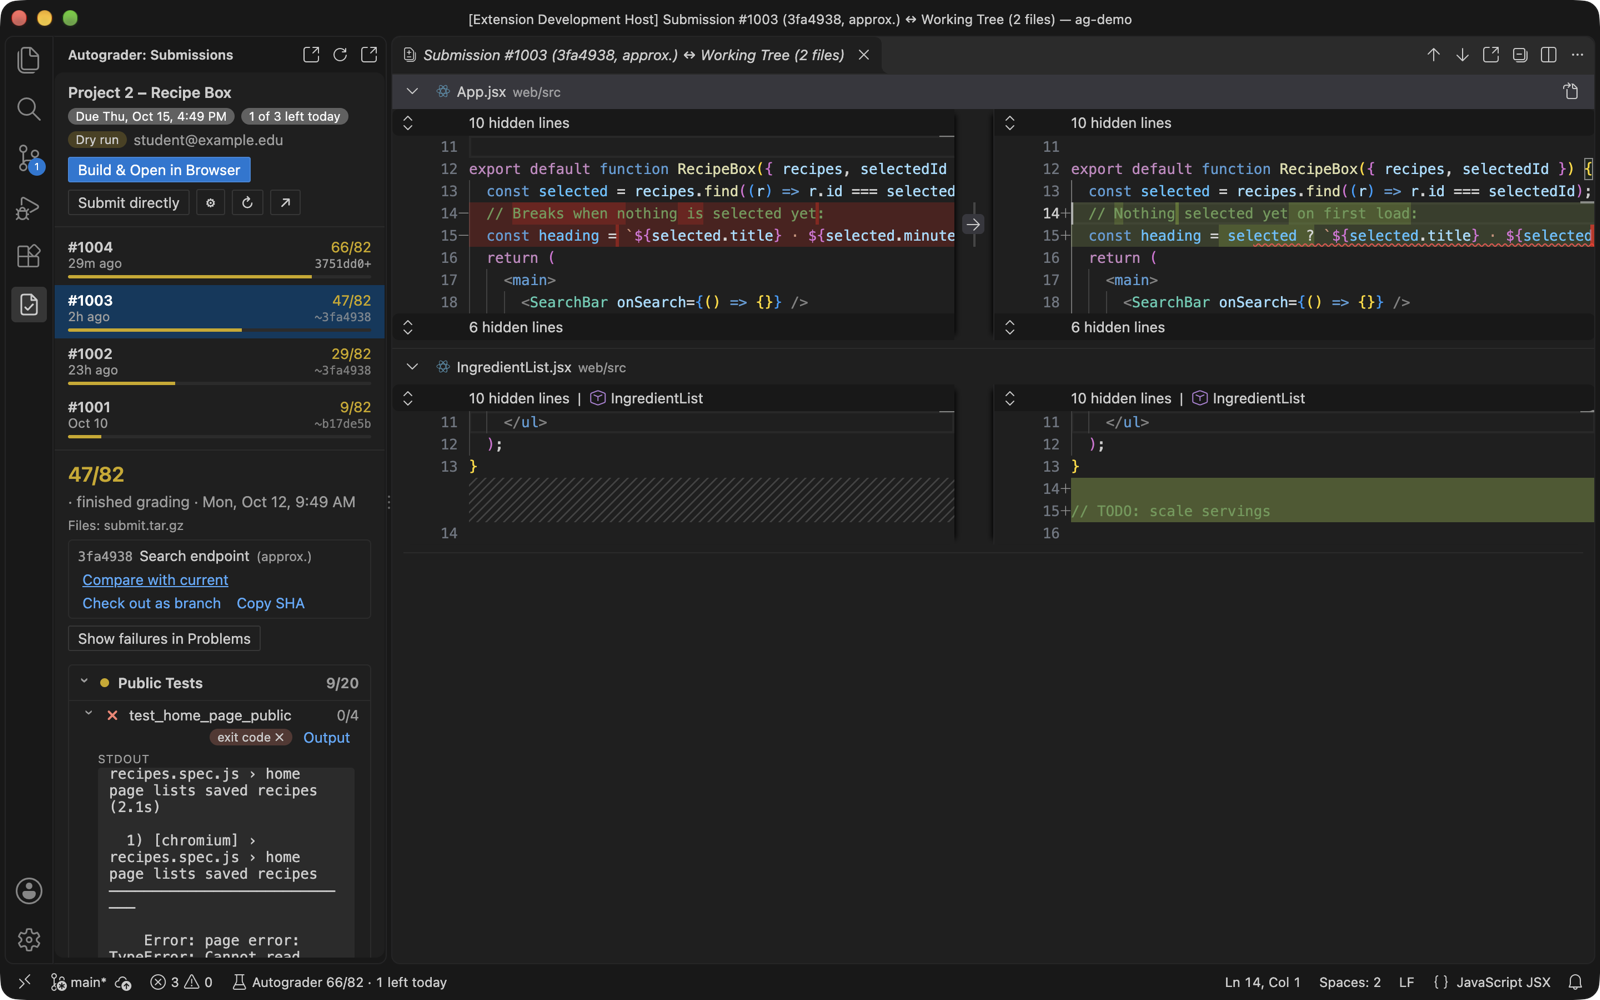
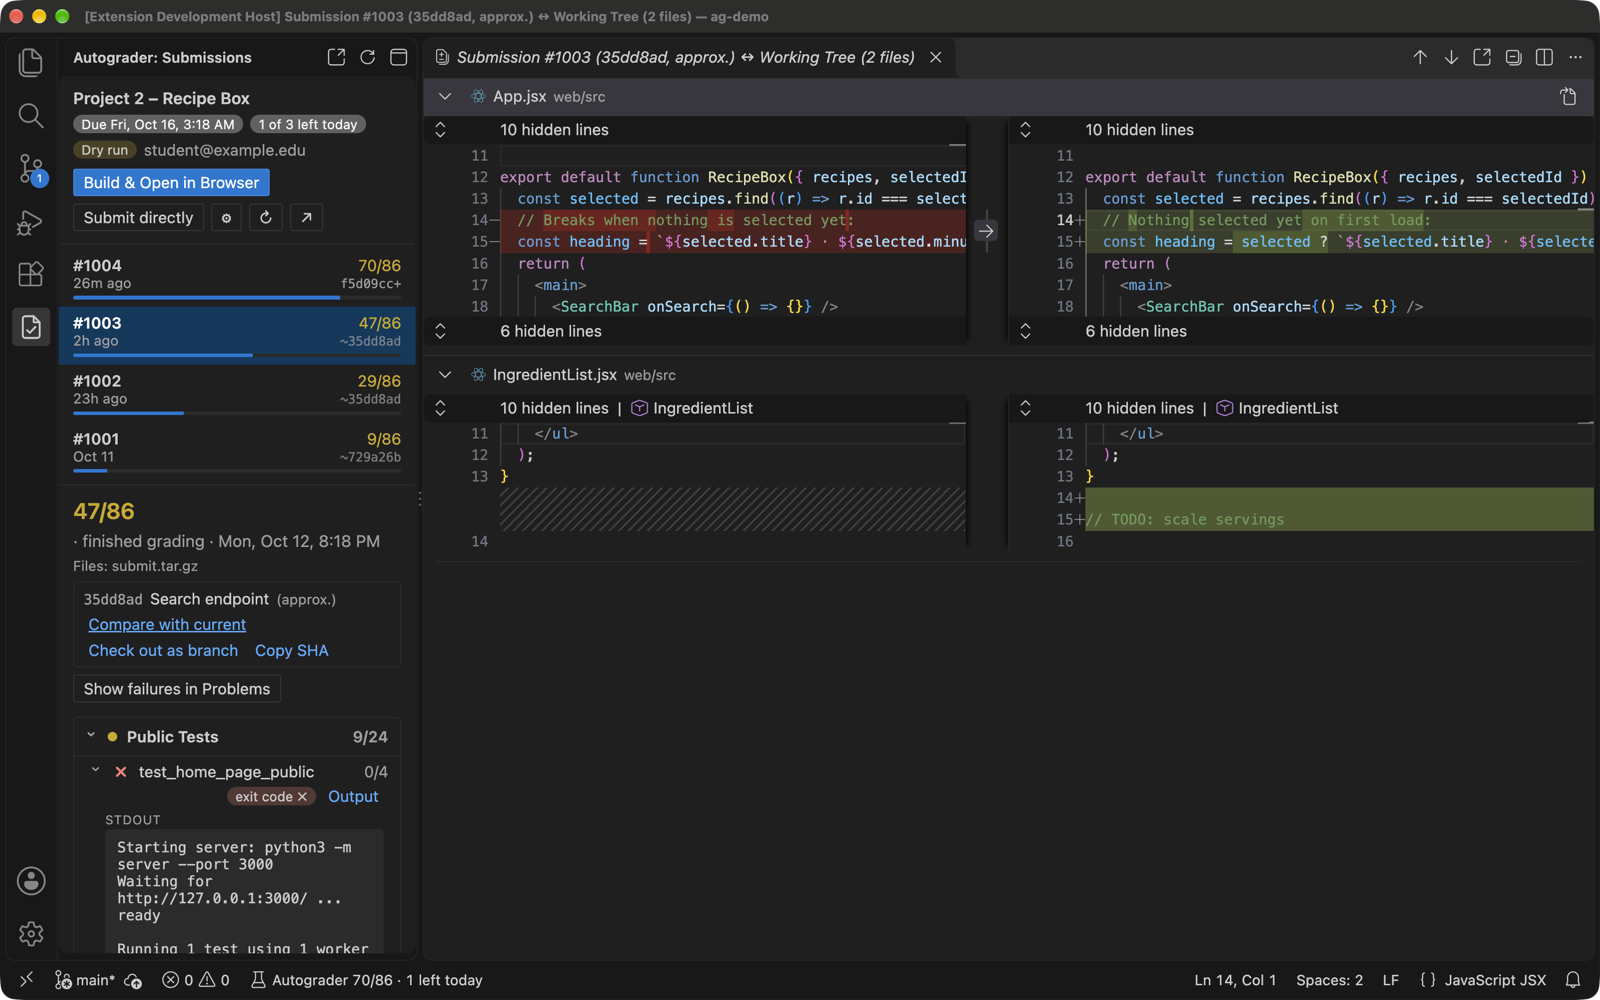
Update README screenshots for v0.1.3; add expected vs. actual output screenshot

diff --git a/README.md b/README.md
@@ -13,7 +13,7 @@ Works with any project on [autograder.io](https://autograder.io).
 ![VS Code](https://img.shields.io/badge/VS%20Code-%E2%89%A51.95-007ACC?logo=visualstudiocode&logoColor=white)
 ![Tests](https://img.shields.io/badge/tests-node%20--test-brightgreen)
 
-<img src="docs/images/sidebar.png" alt="The Autograder sidebar in VS Code: submissions with scores, a failing test's output with a bundled-JS stack frame source-mapped to web/src/App.jsx:15, that file open in the editor, and the failures listed in the Problems panel" width="900">
+<img src="docs/images/sidebar.png" alt="The Autograder sidebar in VS Code: submissions with scores and a failing test's output, web/src/App.jsx open at line 15 where a bundled-JS crash was source-mapped back to, and the failures listed in the Problems panel" width="900">
 
 </div>
 
@@ -56,6 +56,8 @@ Many projects grade a test by comparing your program's output with an expected o
 - **Long matching stretches are collapsed** to a few lines of context. Click to expand them.
 - **Show whitespace** turns spaces, tabs and line ends into `·`, `→` and `↵`. A missing newline at the end and Windows `\r` line endings are always marked, since otherwise the two lines look identical.
 - **Open in diff editor** opens the expected output next to your real output in VS Code's own diff editor.
+
+<img src="docs/images/output-diff.png" alt="A failing expected-output test in the wide Autograder tab: expected and actual output side by side, with a missing first line, amounts printed as 1.5 instead of 1.50, a stray trailing space after 'Steps:' and a missing final newline highlighted" width="900">
 
 ### Submit in one click
 
